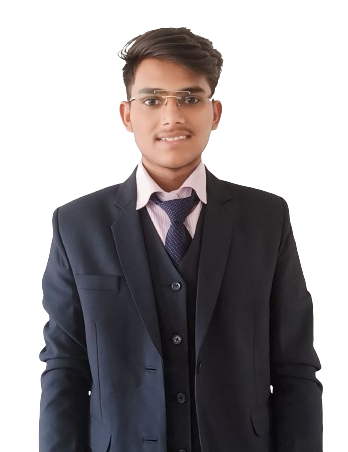
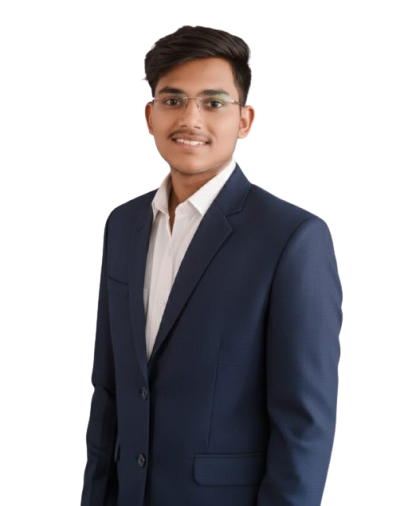
changes done for single page

diff --git a/src/pages/Home.jsx b/src/pages/Home.jsx
@@ -1,10 +1,15 @@
 import { motion } from "framer-motion";
 import { FontAwesomeIcon } from '@fortawesome/react-fontawesome';
-import { faGithub, faLinkedin, faTwitter } from '@fortawesome/free-brands-svg-icons';
+import { faGithub, faInstagram, faLinkedin, faTwitter } from '@fortawesome/free-brands-svg-icons';
 import "../styles/Home.scss";
+import About from "./About"; 
+import Skills from "./Skills";
+import Projects from "./Projects";
+import Contact from "./Contact";
 
 const Home = () => {
   return (
+    <div>
     <motion.div
       className="home"
       initial={{ opacity: 0 }}
@@ -46,8 +51,8 @@ const Home = () => {
             <a href="https://www.linkedin.com/in/sohil-shaikh-977736254/" target="_blank" rel="noopener noreferrer">
               <FontAwesomeIcon icon={faLinkedin} />
             </a>
-            <a href="https://twitter.com/yourusername" target="_blank" rel="noopener noreferrer">
-              <FontAwesomeIcon icon={faTwitter} />
+            <a href="https://instagram.com/sohilshaikh_143" target="_blank" rel="noopener noreferrer">
+              <FontAwesomeIcon icon={faInstagram} />
             </a>
           </div>
         </div>
@@ -58,8 +63,16 @@ const Home = () => {
             <div className="background-shape"></div>
           </div>
         </div>
+        
       </div>
     </motion.div>
+      
+      <section id="about"><About /></section>
+      <section id="skills"><Skills /></section>
+      <section id="projects"><Projects /></section>
+      <section id="contact"><Contact /></section>
+    </div>
+
   );
 };
 

diff --git a/src/components/Navbar.jsx b/src/components/Navbar.jsx
@@ -25,7 +25,7 @@ const Navbar = () => {
           <span className={`hamburger ${isOpen ? 'active' : ''}`}></span>
         </button>
 
-        <ul className={`nav-links ${isOpen ? 'active' : ''}`}>
+        {/* <ul className={`nav-links ${isOpen ? 'active' : ''}`}>
           <li>
             <Link 
               to="/" 
@@ -36,8 +36,9 @@ const Navbar = () => {
             </Link>
           </li>
           <li>
+            
             <Link 
-              to="/about"
+              to="about"
               className={location.pathname === '/about' ? 'active' : ''}
               onClick={() => setIsOpen(false)}
             >
@@ -79,9 +80,16 @@ const Navbar = () => {
             >
               Contact
             </Link>
-          </li>
+          </li> */}
+
+        <ul className={`nav-links ${isOpen ? 'active' : ''}`}>
+          <li><a href="/">Home</a></li>
+          <li><a href="#about">About</a></li>
+          <li><a href="#skills">Skills</a></li>
+          <li><a href="#projects">Projects</a></li>
+          <li><a href="#contact">Contact</a></li>
           <li className="theme-toggle-item">
-            <button 
+            <button
               className="theme-toggle-btn"
               onClick={toggleTheme}
               aria-label={isDarkMode ? "Switch to light mode" : "Switch to dark mode"}
@@ -91,7 +99,7 @@ const Navbar = () => {
           </li>
         </ul>
       </nav>
-    </header>
+    </header >
   );
 };
 

diff --git a/src/pages/About.jsx b/src/pages/About.jsx
@@ -31,7 +31,7 @@ const About = () => {
         <div className="about-content">
           <div className="about-text-container" data-aos="fade-right">
             <div className="profile-image">
-              <img src='' alt="Profile" />
+              <img src="/src/assets/about.jpeg" alt="Profile" />
               <div className="image-overlay"></div>
             </div>
             <div className="about-text">
@@ -48,7 +48,7 @@ const About = () => {
                 web development. I love learning new technologies and solving complex 
                 problems through clean and efficient code.
               </p>
-              <div className="interests">
+              {/* <div className="interests">
                 <h4>My Interests</h4>
                 <ul>
                   <li>Web Development</li>
@@ -69,7 +69,7 @@ const About = () => {
                   <span>AWS</span>
                   <span>Django</span>
                 </div>
-              </div>
+              </div> */}
             </div>
           </div>
         </div>

diff --git a/src/pages/Contact.jsx b/src/pages/Contact.jsx
@@ -11,7 +11,8 @@ import {
 import { 
   faLinkedin, 
   faGithub, 
-  faTwitter 
+  faTwitter ,
+  faInstagram
 } from '@fortawesome/free-brands-svg-icons';
 
 const Contact = () => {
@@ -99,8 +100,8 @@ const Contact = () => {
                 <a href="https://github.com/Sohil-Shaikh" target="_blank" rel="noopener noreferrer">
                   <FontAwesomeIcon icon={faGithub} className="icon" />
                 </a>
-                <a href="https://twitter.com/yourusername" target="_blank" rel="noopener noreferrer">
-                  <FontAwesomeIcon icon={faTwitter} className="icon" />
+                <a href="https://instagram.com/sohilshaikh_143" target="_blank" rel="noopener noreferrer">
+                  <FontAwesomeIcon icon={faInstagram} className="icon" />
                 </a>
               </div>
             </div>

diff --git a/src/pages/Projects.jsx b/src/pages/Projects.jsx
@@ -1,6 +1,7 @@
 import { motion } from 'framer-motion';
 import '../styles/Projects.scss';
 
+
 const placeholderImages = {
   ecommerce: "public/ecommerce.png",
   studentmanager: "public/studentms.png",
